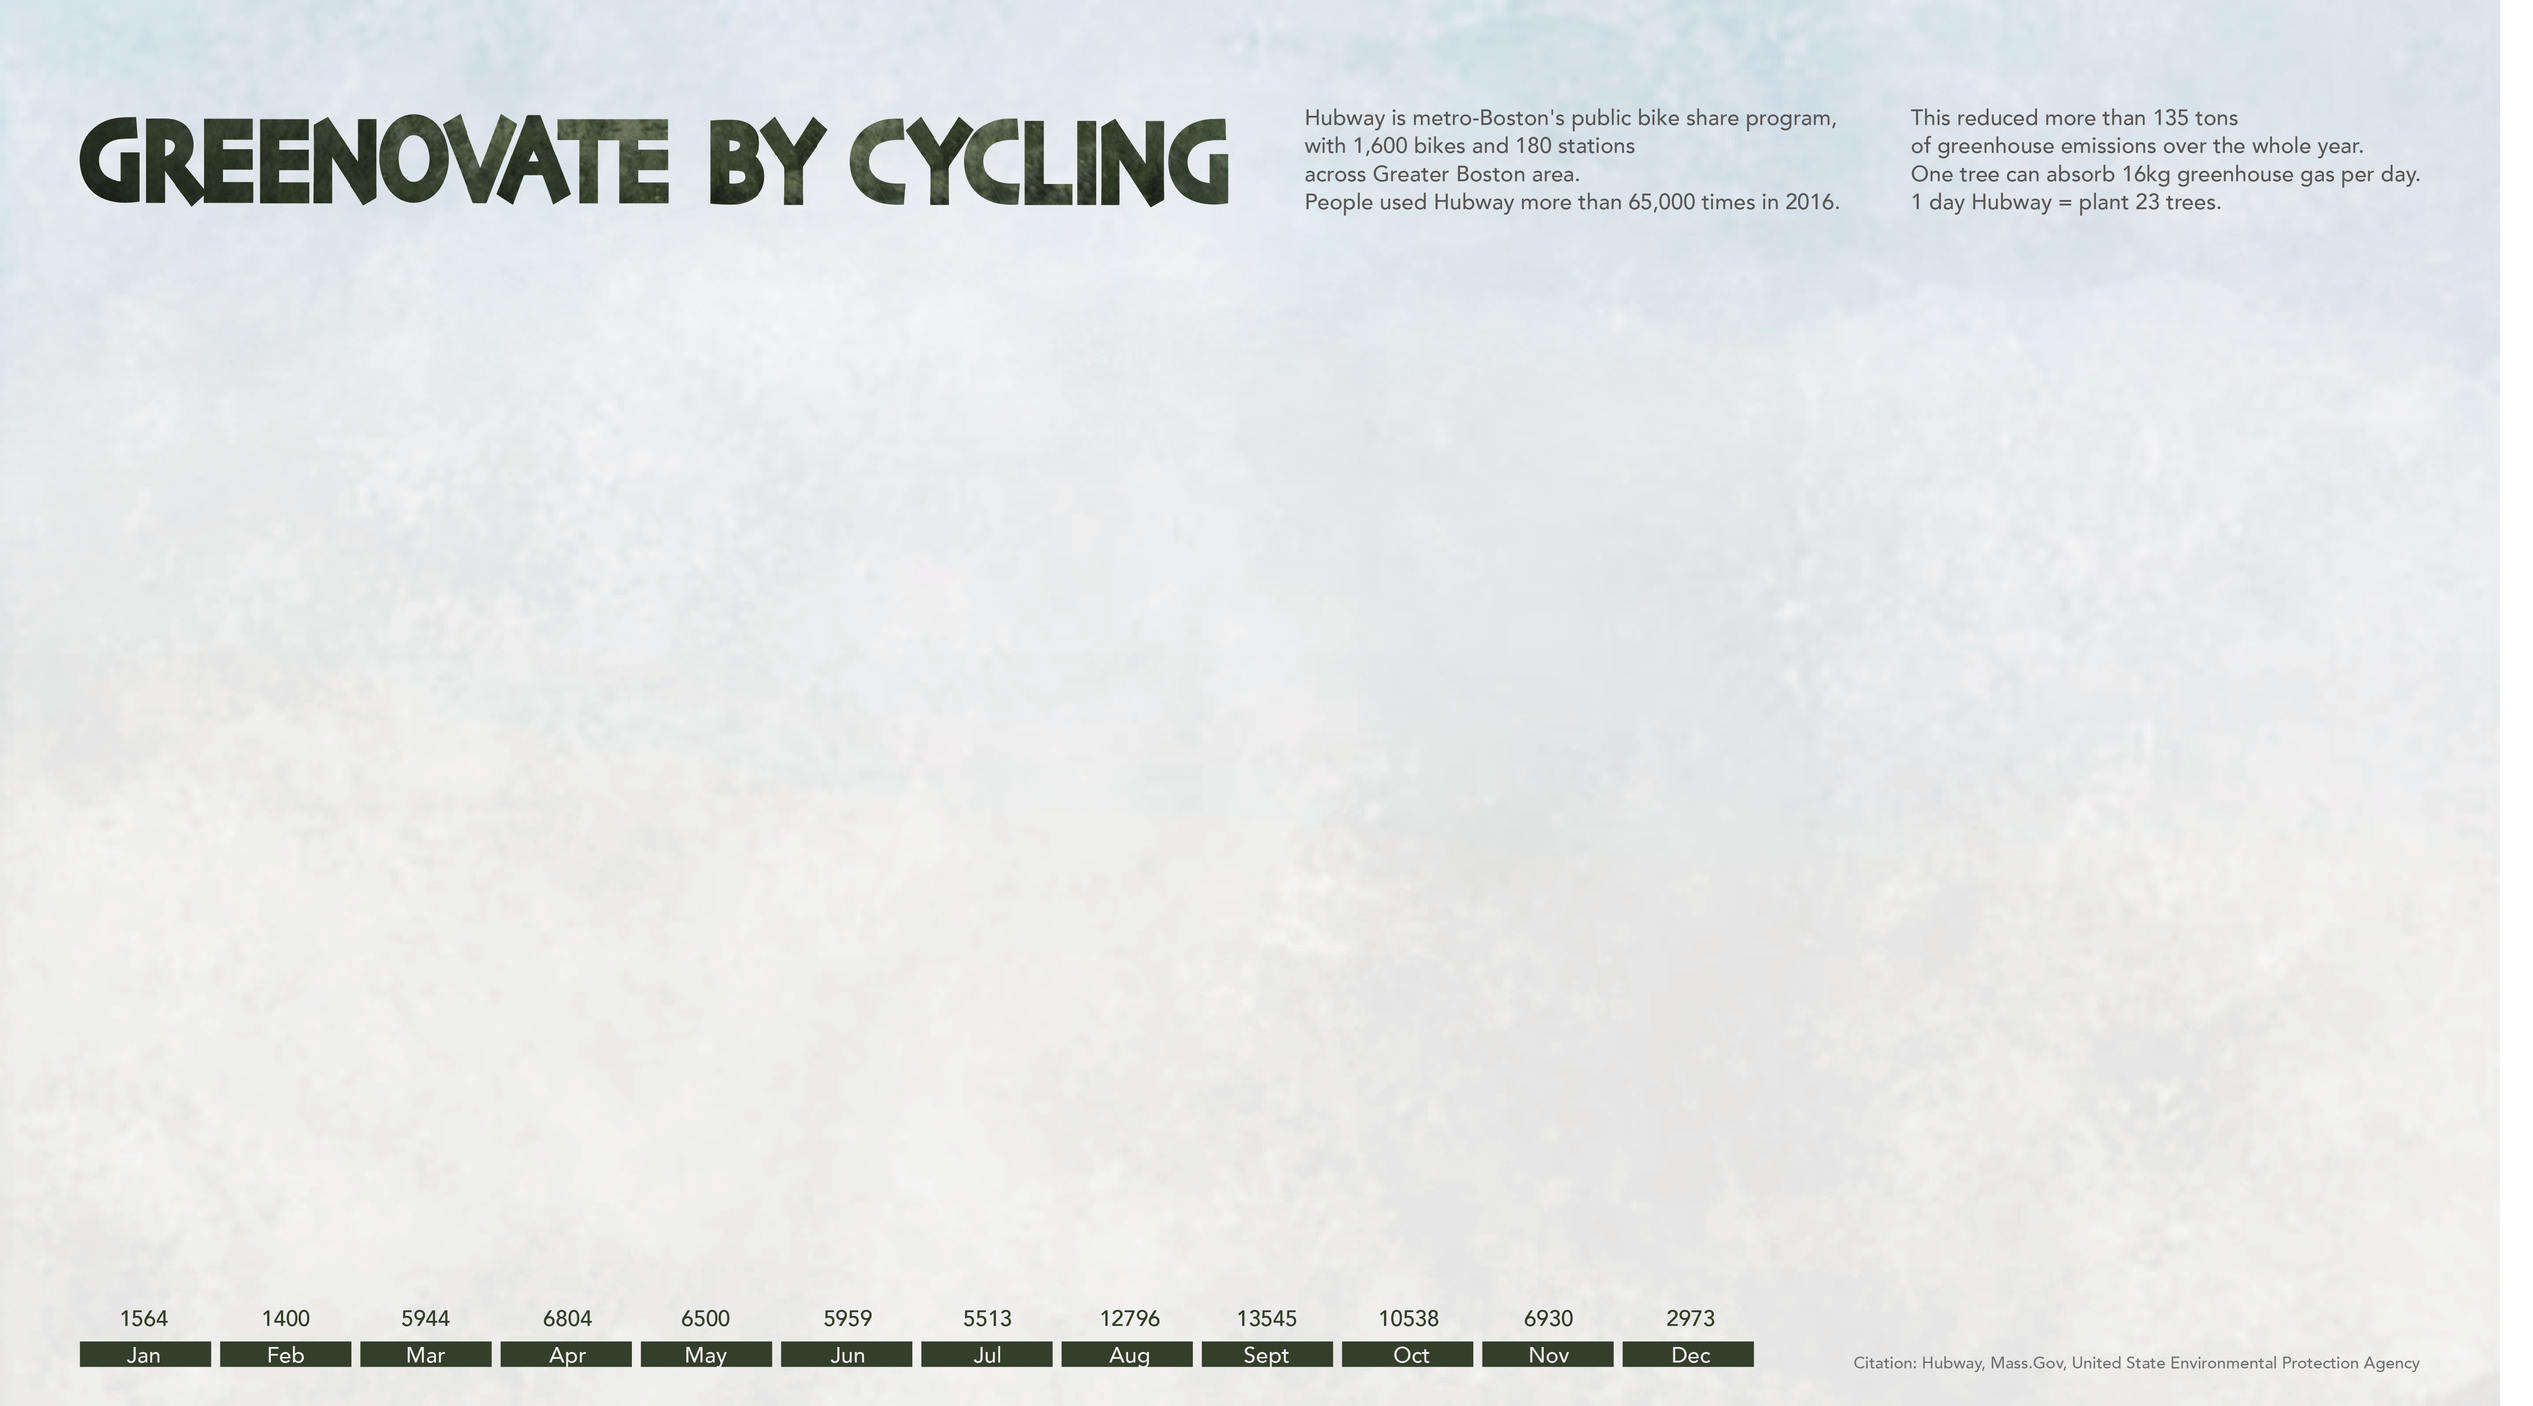
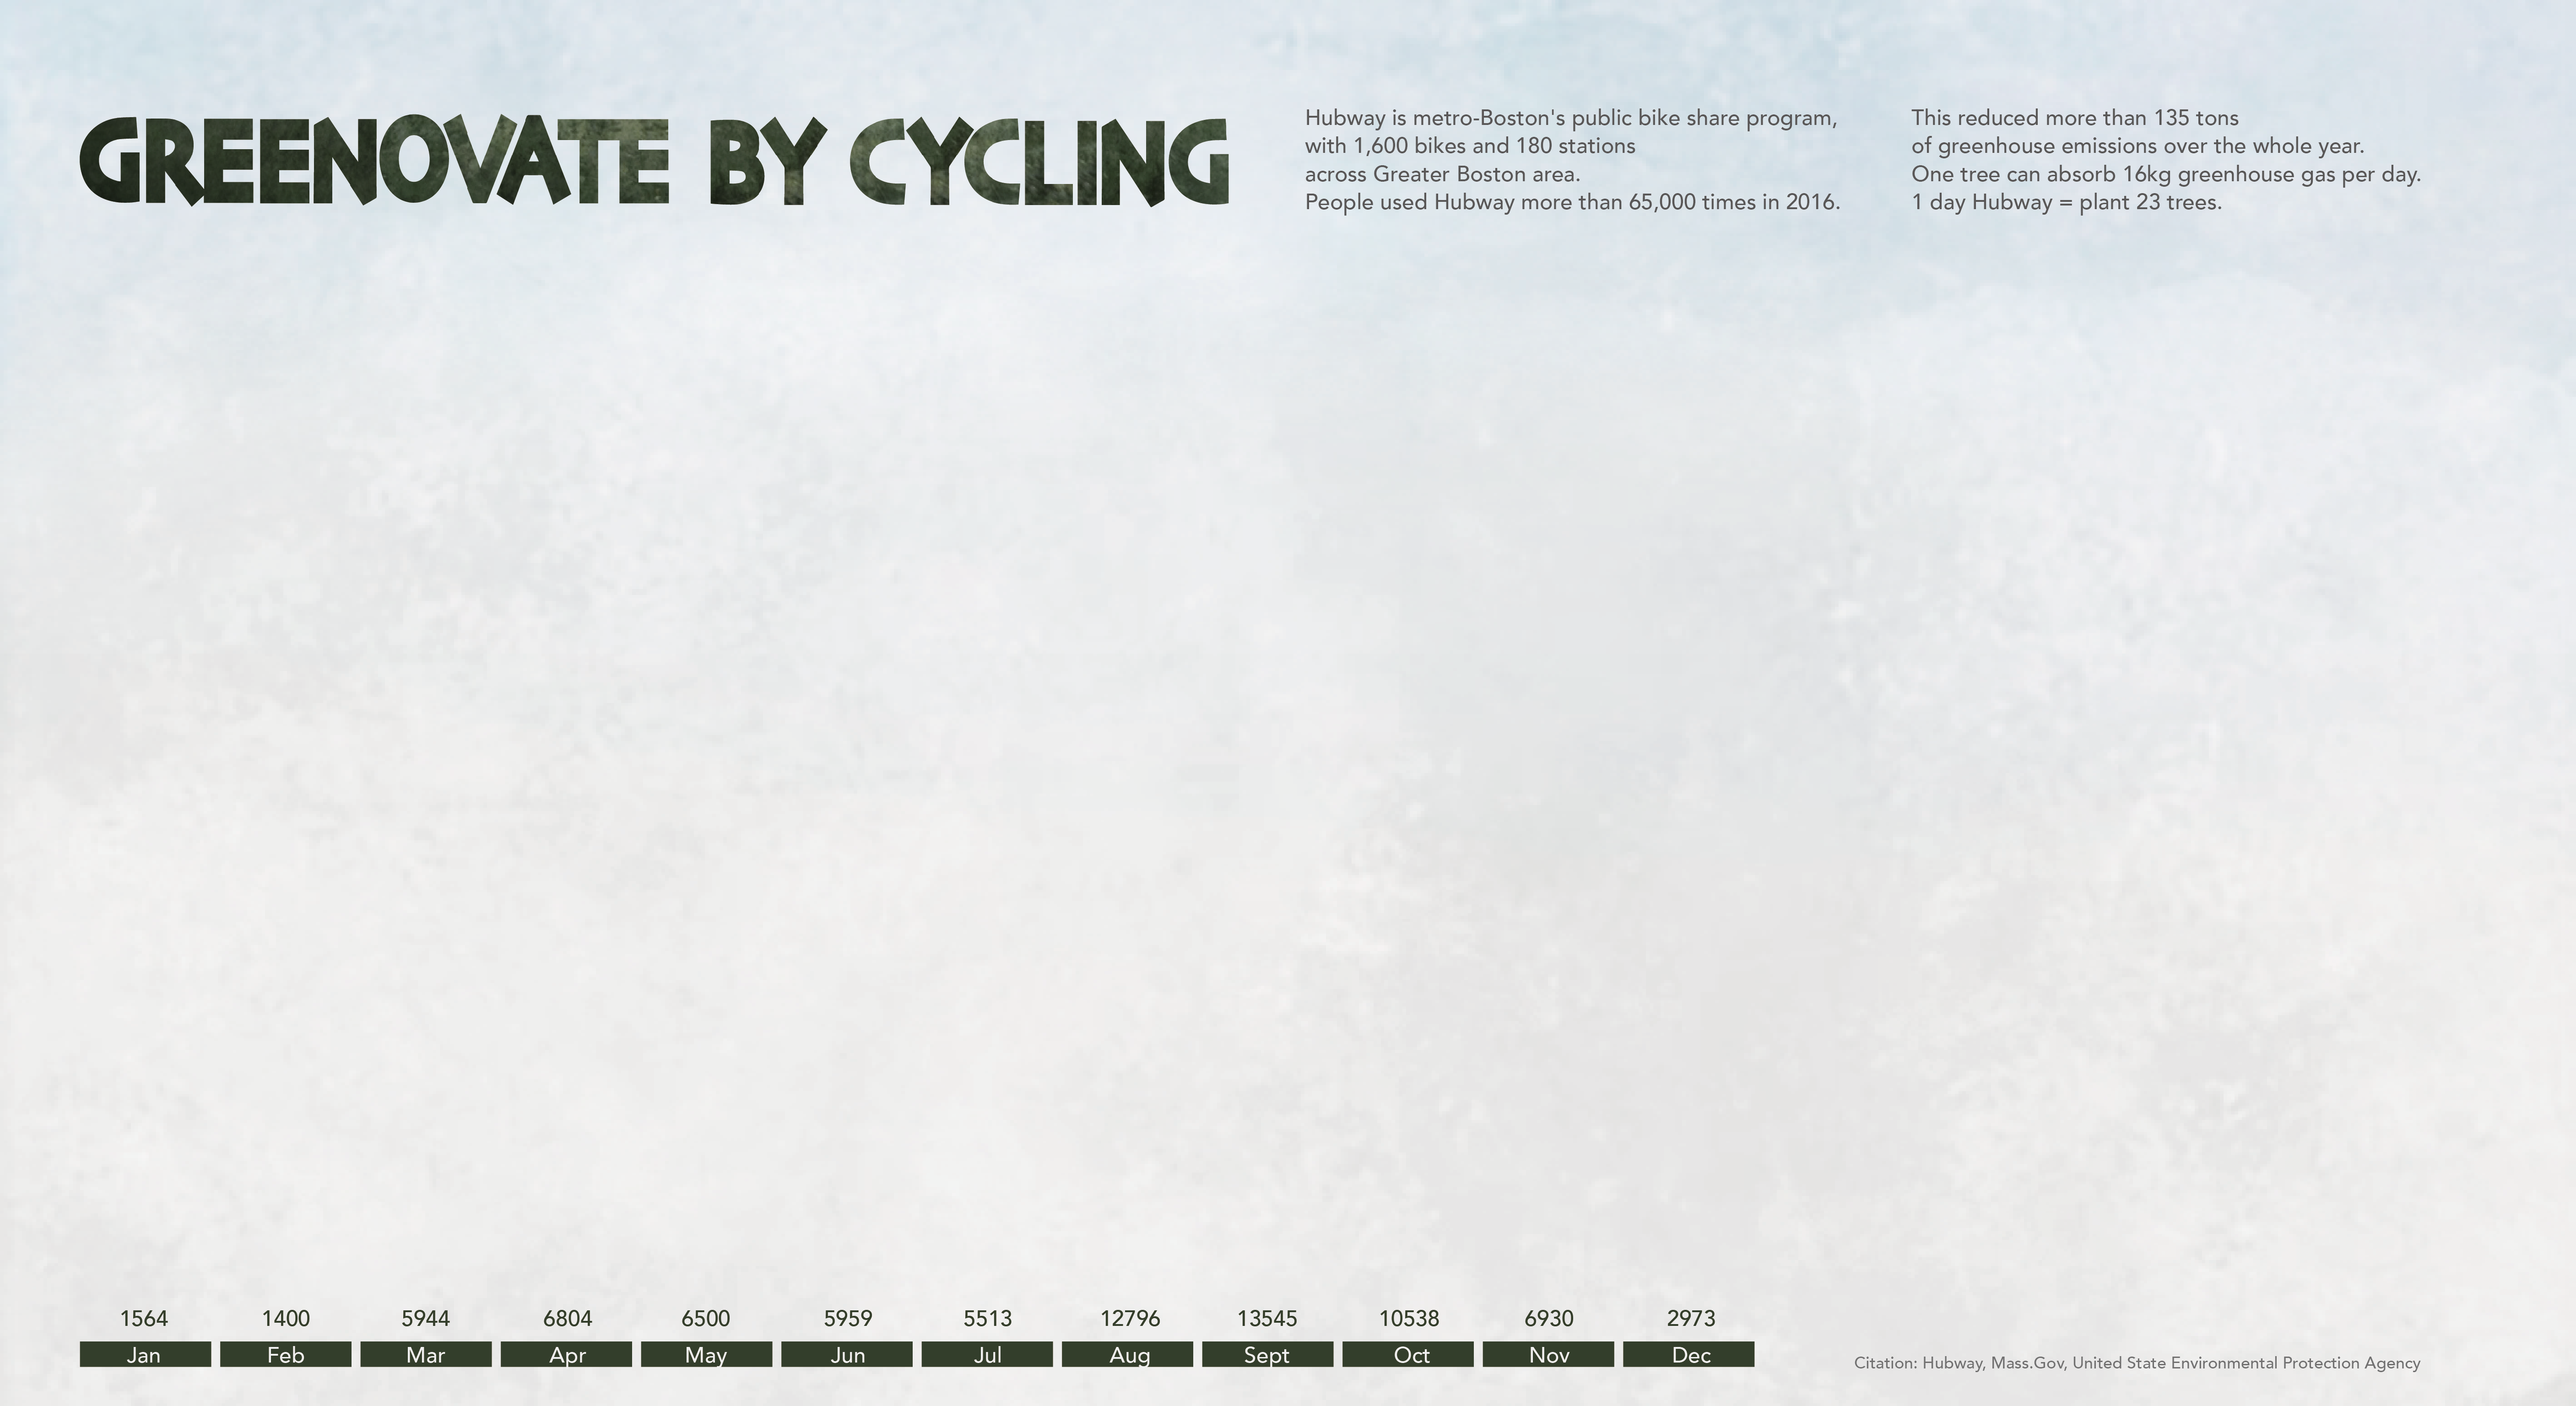
the same

diff --git a/style.css b/style.css
@@ -6,8 +6,8 @@ body{
 	/*width: 100%;*/
 	/*height: 100%;*/
 	background-image: url("img/background.png");
-	/*background-size: 100% 101%;*/
-	background-size: contain;
+	background-size: 100% 100%;
+	/*background-size: contain;*/
 	background-repeat: no-repeat;
 }
 /* tooltip */
